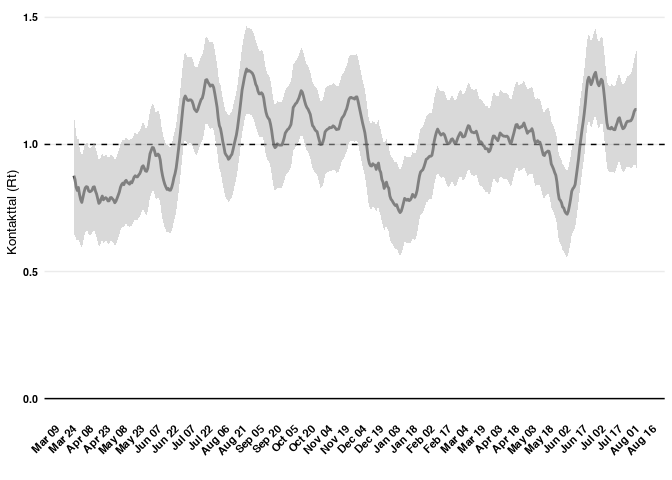
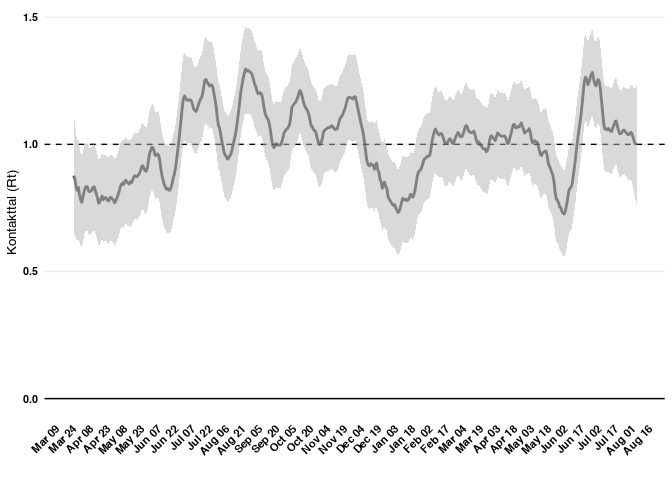
update SSI

diff --git a/data/calculate-R-from-ssi-data/README.md b/data/calculate-R-from-ssi-data/README.md
@@ -41,7 +41,7 @@ dl_url <- str_match(html, match_url)[,1]
 dl_url
 ```
 
-    ## [1] "<a href=\"https://files.ssi.dk/covid19/overvagning/data/overvaagningsdata-covid19-13082021-khg7\""
+    ## [1] "<a href=\"https://files.ssi.dk/covid19/overvagning/data/overvaagningsdata-covid19-16082021-cmed\""
 
 ``` r
 ### Get rid of the html code around the link itself.
@@ -49,7 +49,7 @@ dl_url <- substring(dl_url, 10, nchar(dl_url) - 1)
 dl_url
 ```
 
-    ## [1] "https://files.ssi.dk/covid19/overvagning/data/overvaagningsdata-covid19-13082021-khg7"
+    ## [1] "https://files.ssi.dk/covid19/overvagning/data/overvaagningsdata-covid19-16082021-cmed"
 
 ``` r
 ### Extract the date from the most recent zip file available.
@@ -57,7 +57,7 @@ dl_date <- str_match(dl_url, "[[:digit:]]{8}") %>% as.Date("%d%m%Y")
 dl_date
 ```
 
-    ## [1] "2021-08-13"
+    ## [1] "2021-08-16"
 
 ``` r
 ### Download the zip file. Note that mode = wb is necessary for R in Windows,
@@ -105,13 +105,13 @@ df_r <- df %>% select(Date, R, R.UCI, R.LCI)
 tail(df_r)
 ```
 
-    ##           Date        R    R.UCI     R.LCI
-    ## 492 2021-07-29 1.093324 1.279506 0.9071425
-    ## 493 2021-07-30 1.100422 1.291887 0.9089576
-    ## 494 2021-07-31 1.113072 1.311347 0.9147956
-    ## 495 2021-08-01 1.130184 1.337177 0.9231909
-    ## 496 2021-08-02 1.137836 1.355886 0.9197854
-    ## 497 2021-08-03 1.137560 1.369496 0.9056239
+    ##           Date         R    R.UCI     R.LCI
+    ## 495 2021-08-01 1.0473756 1.232952 0.8617996
+    ## 496 2021-08-02 1.0423179 1.233166 0.8514699
+    ## 497 2021-08-03 1.0274089 1.225054 0.8297643
+    ## 498 2021-08-04 1.0110188 1.217361 0.8046772
+    ## 499 2021-08-05 1.0022807 1.219656 0.7849052
+    ## 500 2021-08-06 0.9997237 1.230954 0.7684936
 
 The weekly plot with its lower and upper confidence interval is also
 based on this time series.
